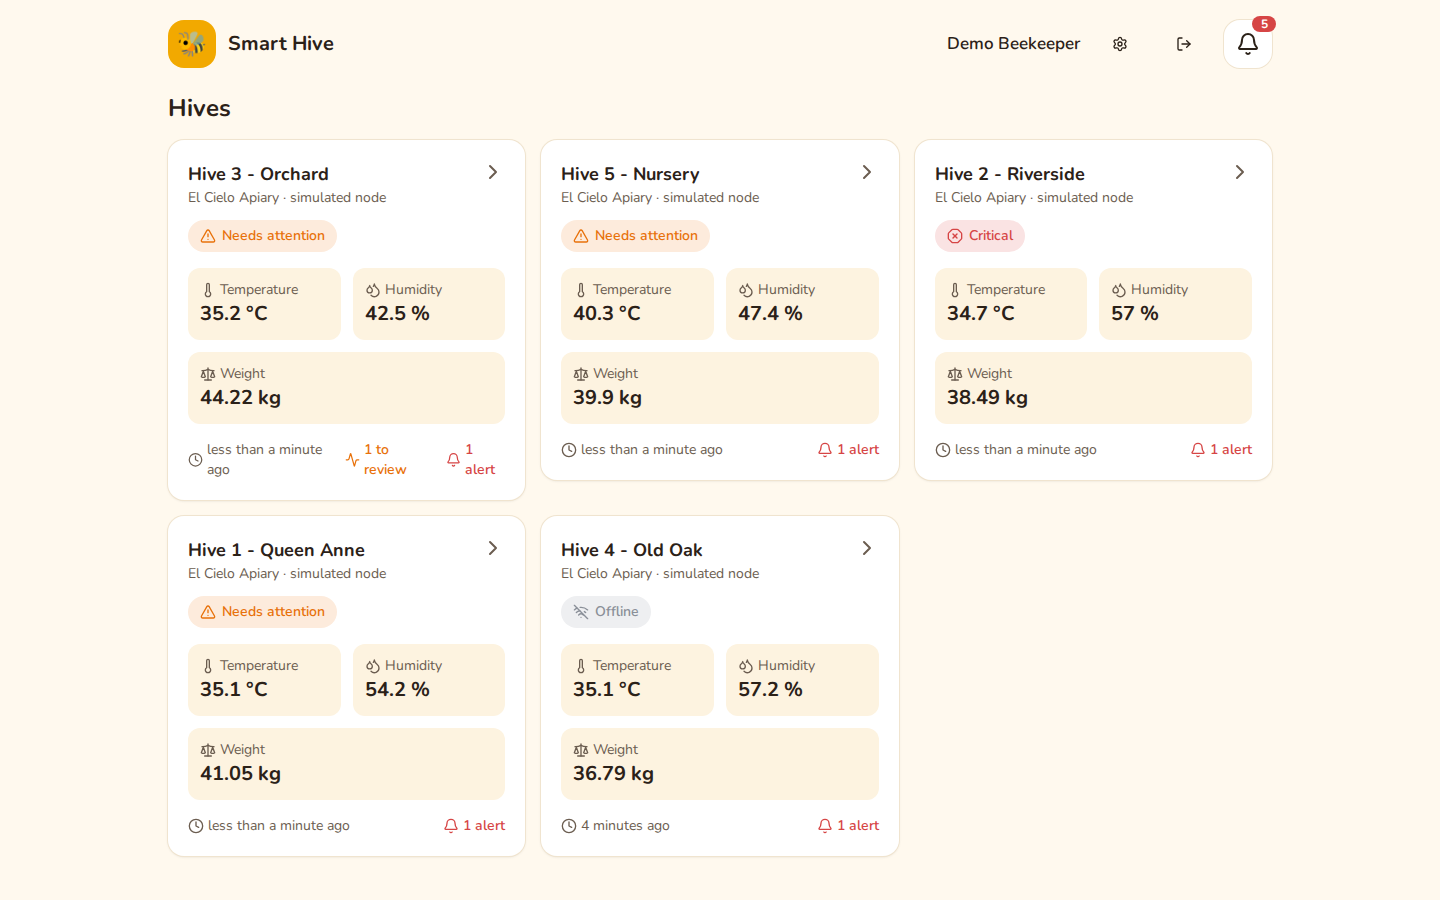
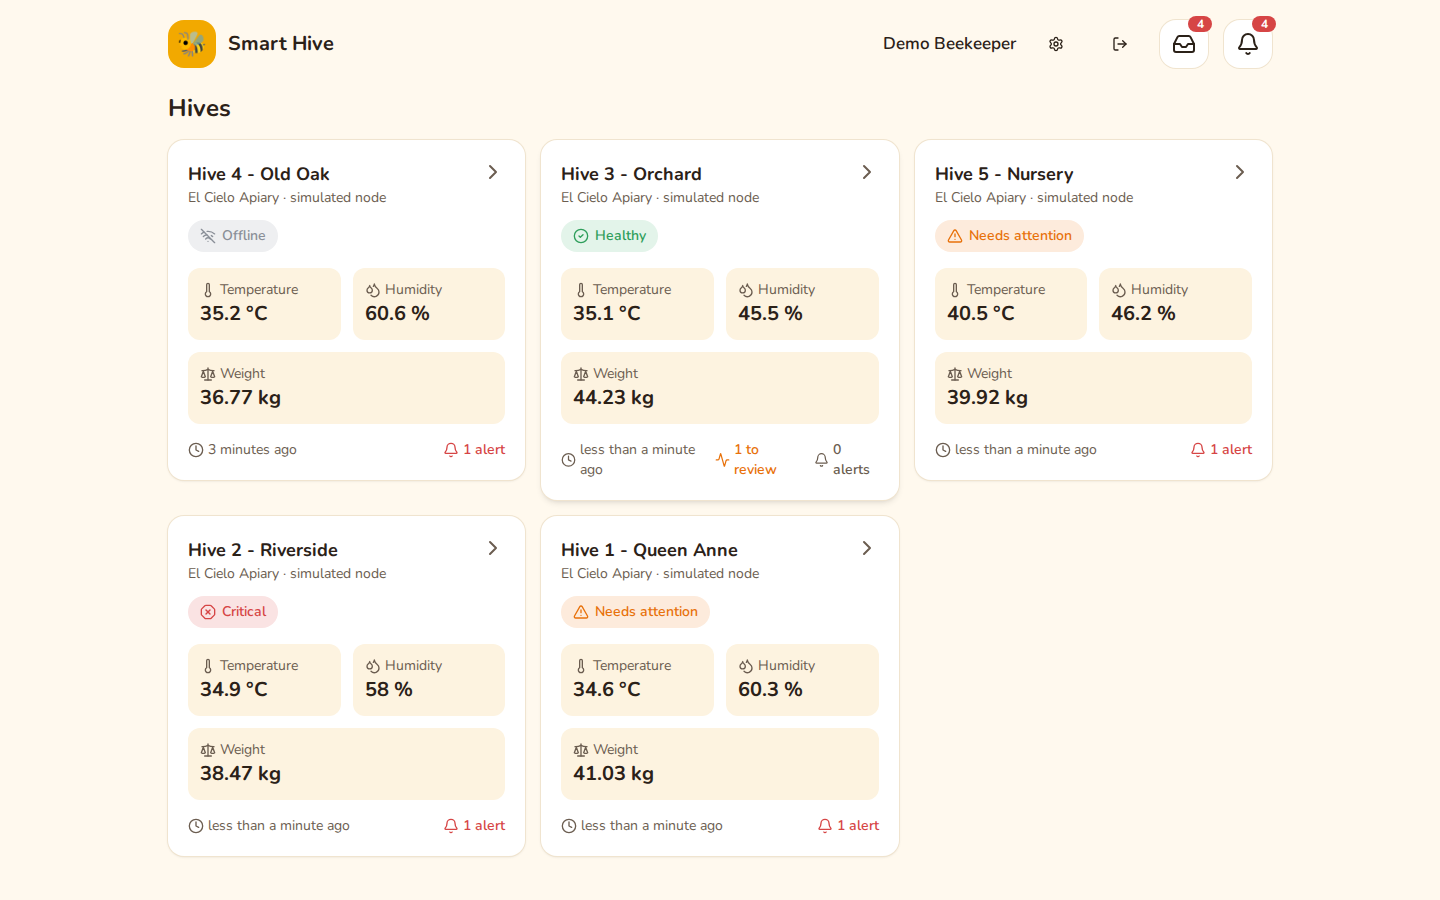
feat(demo): no false Varroa alarms, a false-alarm check, inbox in the guide, fresh screenshots

diff --git a/demo/verify/verify.py b/demo/verify/verify.py
@@ -419,6 +419,13 @@ def scenarios(hives: dict[int, dict], live: Live) -> dict:
     hv = api.json(f"/api/v1/hives/{h[4]}/latest")
     record("pipeline", "power cut: the hive card shows the node as offline", hv["node_status"] == "offline", hv["node_status"])
 
+    # --- no false alarms: what a hive did not do, it must not be told about
+    expected = {2: {"hornet_detected"}, 1: {"varroa_high"}, 5: {"temp_out_of_range"}, 4: {"node_offline"}, 3: set()}
+    for i, ok_rules in expected.items():
+        got = {a["rule_id"] for a in api.json("/api/v1/alerts", params={"hive_id": h[i], "limit": 100})["items"]
+               if a["rule_id"] != "anomaly_detected" and datetime.fromisoformat(a["opened_at"].replace("Z", "+00:00")) >= t0}
+        record("pipeline", f"hive {i}: only the expected alerts, no false alarms", got <= ok_rules, f"got {sorted(got)}, may have {sorted(ok_rules)}")
+
     # --- anomaly (in the seeded history) is a review item, not a notification
     an = api.json(f"/api/v1/hives/{h[3]}/anomalies", params={"start": iso(now() - timedelta(days=2))})
     items = an["items"] if isinstance(an, dict) else an

diff --git a/demo/simulator/sim.py b/demo/simulator/sim.py
@@ -45,6 +45,7 @@ BROKER = os.environ.get("MQTT_HOST", "mosquitto")
 SAMPLE_S = float(os.environ.get("SAMPLE_S", "10"))
 WEIGHT_S = float(os.environ.get("WEIGHT_S", "30"))
 FRAME_S = float(os.environ.get("FRAME_S", "5"))
+MITE_CONF = 0.60  # the node counts a Varroa box only at or above this, the same threshold its filter uses
 SUMMARY_S = float(os.environ.get("SUMMARY_S", "60"))  # ten minutes on a real node; the demo cannot wait
 # node -> (baseline weight in kg, weight change in kg per hour while nothing else is set)
 FLEET = {
@@ -182,7 +183,7 @@ class Camera:
         # the detector's `wasp` class (wasps and hornets) is the contract's `hornet` threat
         objects = [{"cls": "hornet" if o["cls"] == "wasp" else o["cls"], "conf": o["conf"], "box": o["box"]} for o in found]
         bees = sum(o["cls"] == "bee" for o in objects)
-        mites = sum(o["cls"] == "varroa" for o in objects)
+        mites = sum(o["cls"] == "varroa" and o["conf"] >= MITE_CONF for o in objects)  # as the node reports them
         with self.acc_lock:
             self.acc["frames"] += 1
             for o in objects:

diff --git a/demo/README.md b/demo/README.md
@@ -93,6 +93,10 @@ What happens, in order, and what to say:
 
 7. In the dashboard open **Alerts**, then the alert: its log shows who saw it and when. Acknowledge it and resolve it with a note, as a beekeeper would after closing the entrance.
 
+The header has an inbox button with the number of unread notifications. Every alert that reaches the beekeeper lands there, and opening one marks it read and goes to the alert.
+
+![Inbox](guide/img/14-inbox.png)
+
 ![Alert list](guide/img/08-alerts.png)
 
 ![One alert and its log](guide/img/09-alert-detail.png)
